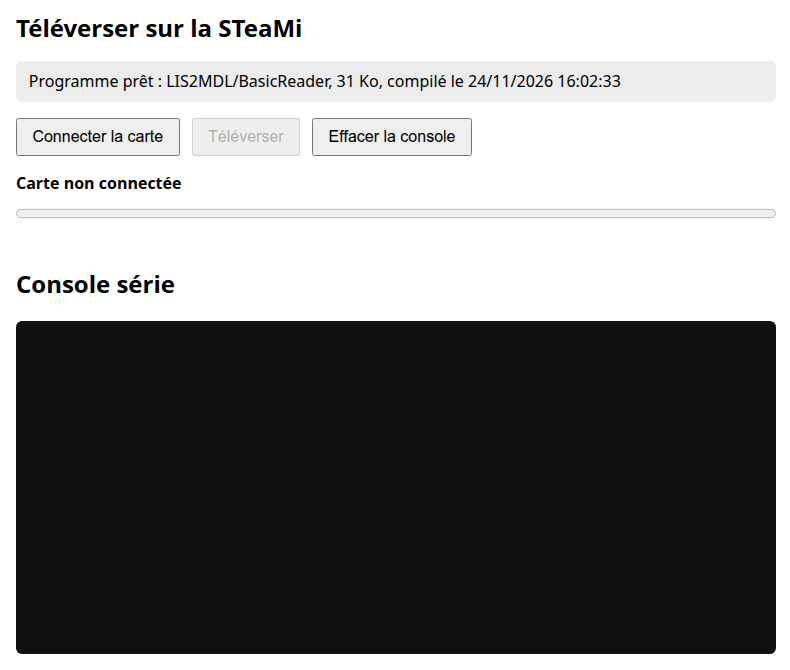
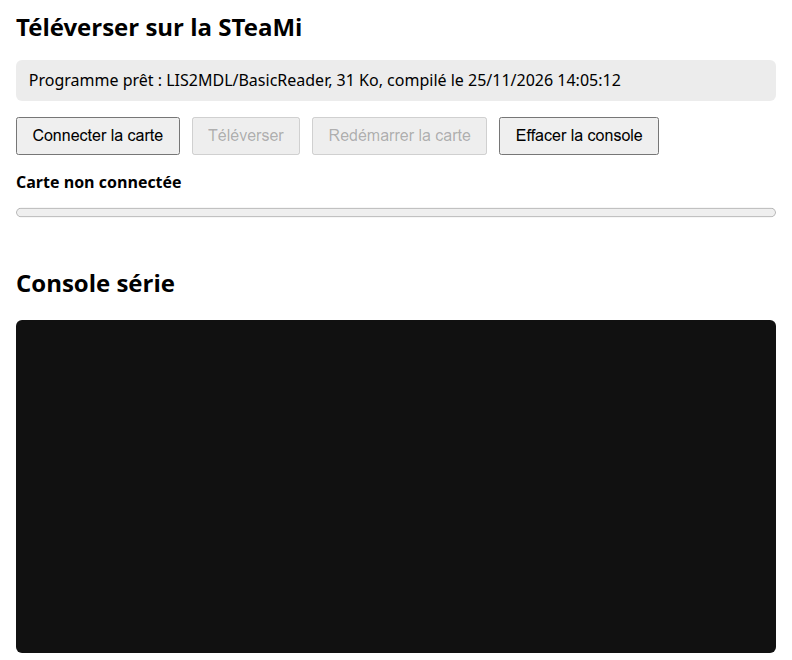
docs(arduino): bouton « Redémarrer la carte » du Codespace et mise à jour du DAPLink
Closes #166

diff --git a/docs/software/arduino/codespace.md b/docs/software/arduino/codespace.md
@@ -147,7 +147,7 @@ Cette méthode envoie le programme directement depuis le navigateur par USB (Web
 
 2. La page Téléverser doit s'ouvrir **dans un onglet de Chrome ou d'Edge**. Son bandeau indique le dernier programme compilé, sa taille et l'heure de compilation.
 
-   ![Page Téléverser avant la connexion : bandeau « Programme prêt : LIS2MDL/BasicReader, 31 Ko », boutons Connecter la carte, Téléverser (grisé) et Effacer la console, état « Carte non connectée » et console série vide](/img/software/arduino/codespace-14-page-prete.png)
+   ![Page Téléverser avant la connexion : bandeau « Programme prêt : LIS2MDL/BasicReader, 31 Ko », boutons Connecter la carte, Téléverser et Redémarrer la carte (grisés) et Effacer la console, état « Carte non connectée » et console série vide](/img/software/arduino/codespace-14-page-prete.png)
 
 3. Brancher la carte en USB, puis cliquer sur **Connecter la carte**. Chrome ouvre une fenêtre : choisir **STeaMi CMSIS-DAP** et cliquer sur **Connexion**.
 
@@ -160,6 +160,8 @@ Cette méthode envoie le programme directement depuis le navigateur par USB (Web
 5. Quand le message « Programme téléversé. » apparaît, la carte redémarre toute seule et exécute le nouveau programme. La **console série** affiche ce que le programme écrit avec `Serial.print()`. Avec `LIS2MDL/BasicReader`, ce sont les mesures du magnétomètre ; sur la capture ci-dessous, c'est le programme du modèle (`steami-compiler` sans argument), qui écrit `Bonjour STeaMi !`, puis un compteur.
 
    ![Page Téléverser terminée : barre de progression pleine, message « Programme téléversé. » et console série affichant « Bonjour STeaMi ! » puis 0 et 1](/img/software/arduino/codespace-10-programme-televerse.png)
+
+6. Pour relancer le programme depuis le début sans débrancher la carte, par exemple pour revoir ses premières lignes dans la console, cliquer sur **Redémarrer la carte**. Ce bouton est apparu avec la version 2026.11.7 de l'image : il ne figure pas encore sur les captures de la carte connectée ci-dessus. Si la page répond que le DAPLink est trop ancien, voir [le dépannage](#le-bouton-redémarrer-la-carte-ne-fonctionne-pas).
 
 ### Autre méthode : glisser le fichier sur le lecteur STEAMI
 
@@ -284,7 +286,15 @@ Le Codespace est probablement ouvert sur le modèle `steamicc/arduino-steami-sta
 
 ### La carte n'est pas proposée dans la fenêtre de Chrome
 
-Vérifier le câble (beaucoup de câbles ne transportent que la charge) et que la carte est bien branchée. Si le problème persiste, utiliser la méthode du lecteur. Pour un redémarrage de la carte qui ne se fait pas, voir [le problème connu du DAPLink](https://github.com/steamicc/DAPLink/issues/10).
+Vérifier le câble (beaucoup de câbles ne transportent que la charge) et que la carte est bien branchée. Si le problème persiste, utiliser la méthode du lecteur.
+
+### Le bouton Redémarrer la carte ne fonctionne pas
+
+La page affiche « Cette carte ne sait pas redémarrer depuis la page : son DAPLink est trop ancien. » Le redémarrage depuis la page demande un DAPLink de la [release 2026-11-25](https://github.com/steamicc/DAPLink/releases/tag/2026-11-25) ou plus récent. En attendant, débrancher puis rebrancher la carte relance le programme. Pour mettre à jour le DAPLink :
+
+1. Télécharger [stm32f103xb_steami32_if_crc.bin](https://github.com/steamicc/DAPLink/releases/download/2026-11-25/stm32f103xb_steami32_if_crc.bin).
+2. Brancher la carte, puis créer un fichier vide nommé `START_BL.ACT` sur le lecteur de la carte (**STEAMI**). La carte redémarre et un lecteur **MAINTENANCE** apparaît à la place.
+3. Copier le fichier téléchargé sur le lecteur **MAINTENANCE**, puis attendre que le lecteur de la carte revienne.
 
 ## Conseils pour la classe
 
